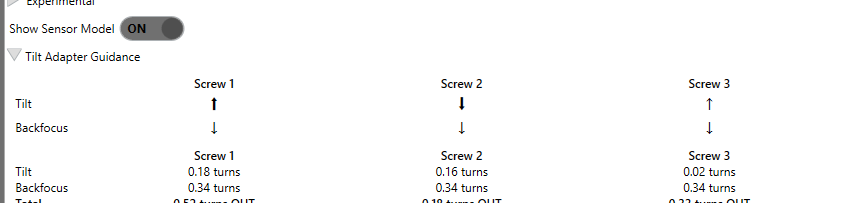
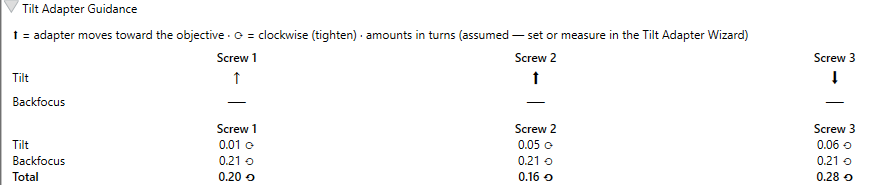
docs: refresh tilt guidance/options screenshots; add wizard Measurement section capture
Recapture the inspector Tilt Adapter Guidance against the post-#117 UI (motion-anchored guidance arrows, per-row rotation glyphs, legend at the top of the section) and the inspector sweep-settings/Options section (Signal Amplification + Center Focuser First above the two-column Options grid). Add a new Tilt Adapter Wizard Measurement-section capture including the adapter-direction selector and embed it in the calibration-loop section of tilt-adapter-wizard.md.

Claude-Session: https://claude.ai/code/session_01KY7tgXMHkF9EbvPAHry7RA

diff --git a/documentation/docs/overview/tilt-adapter-wizard.md b/documentation/docs/overview/tilt-adapter-wizard.md
@@ -58,6 +58,10 @@ of the effect (`ScrewInwardCurvatureSign`) from the curvature change, and the sa
 reports the direction as measured. To average out seeing, set **Measurements to average** above 1; the wizard
 flags inconsistent repeats so you can re-run.
 
+![The Tilt Adapter Wizard's Measurement section: Signal Amplification, Center Focuser First, the adapter-direction selector, and Measure direction](../assets/screenshots/wizard-measurement-section.png){ width=620 }
+
+*The Measurement section configures each calibration sweep and sets which way a clockwise turn moves the adapter.*
+
 !!! tip "Each calibration step runs a full inspector sweep"
     A calibration measurement is a full sensor-model sweep, so it runs the same alignment and
     focus-centering steps as a standalone Detailed Analysis. **Center Focuser First** (off by
